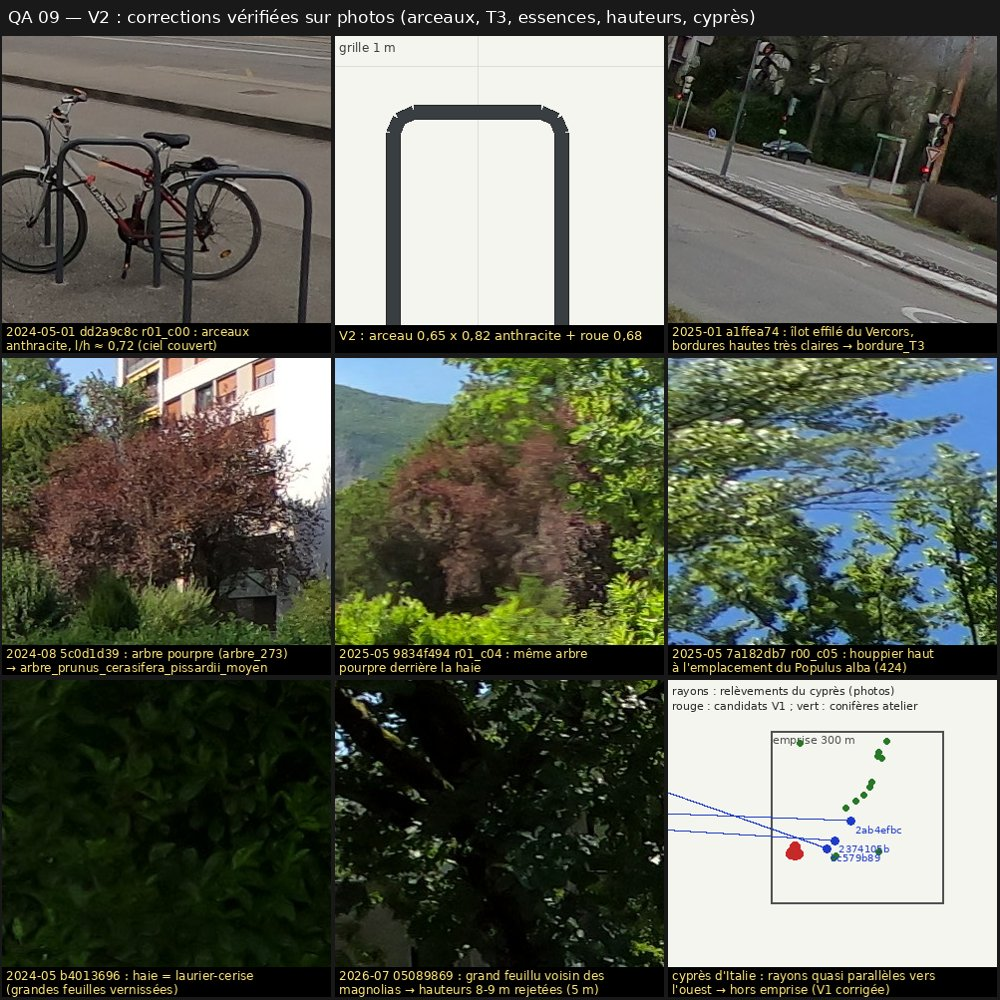
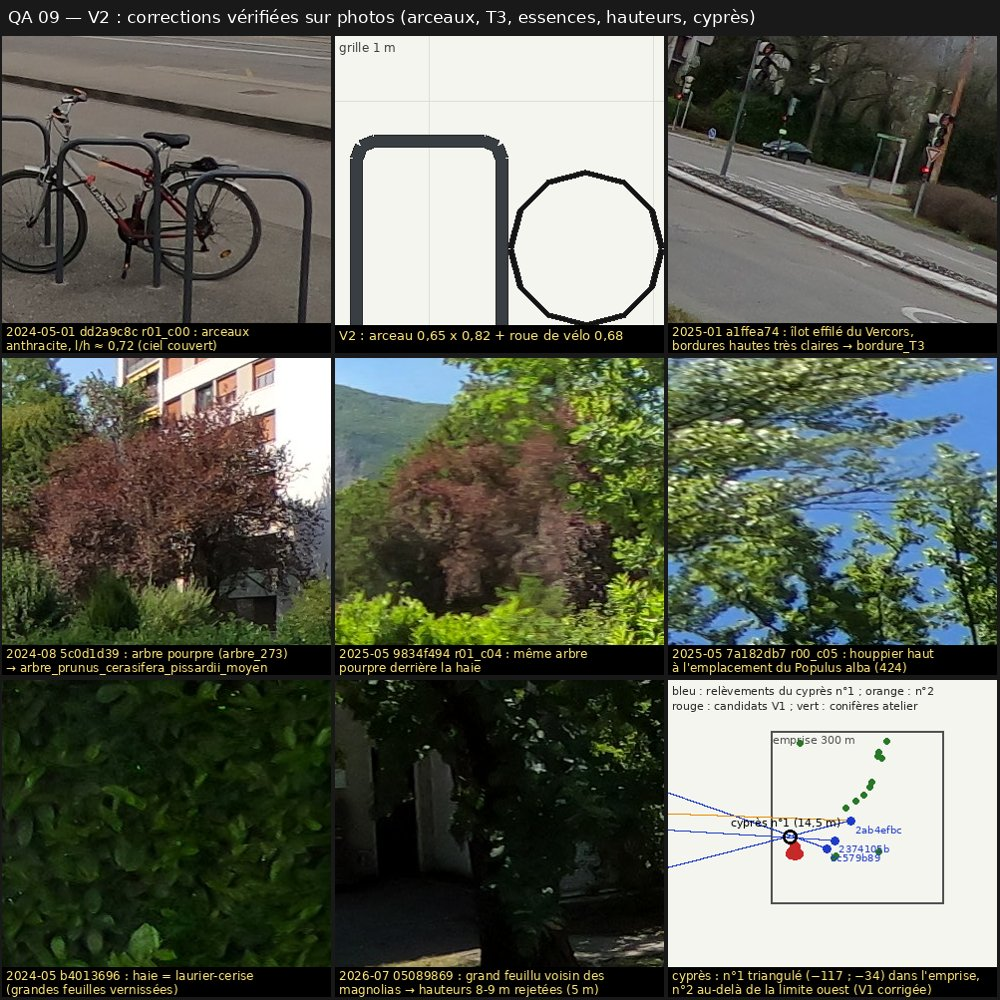
Librairie : spécifications mobilier/bordures/végétation et CARLA (instantané, lot en cours)
Claude-Session: https://claude.ai/code/session_016uVmtG49m772kqMcXifgSi

diff --git a/assets/specs/outils_mobilier_vegetation/construire_specs.py b/assets/specs/outils_mobilier_vegetation/construire_specs.py
@@ -35,7 +35,7 @@ HISTORIQUE = [
     {"version": 1, "date": "2026-10-09", "contenu": "première version (fiches, profils, essences, correspondances CARLA)"},
     {"version": 2, "date": DATE, "contenu": ("contrôle visuel des 8 planches V1 et recoupements photo/normes : correspondance prototypes de la scène → "
                                               "noms du catalogue (+ script noms_catalogue_scene.py), hauteurs d'arbres aberrantes corrigées, 2 essences "
-                                              "ajoutées (arbre pourpre, peuplier blanc), cyprès hors emprise, arceaux anthracite 0,65 x 0,82 m, positions des BEV, "
+                                              "ajoutées (arbre pourpre, peuplier blanc), cyprès n°1 triangulé dans l'emprise (instance à ajouter), arceaux anthracite 0,65 x 0,82 m, positions des BEV, "
                                               "profils de bordures vérifiés sur les plans cotés Celtys, bordure_T3 explicite, identifiants CARLA revérifiés")},
 ]
 
@@ -254,7 +254,8 @@ def construire_mobilier():
             "sources_donnees": ["recon/out/paquet_jardin/objets/mobilier.geojson (positions, hauteurs LiDAR, OSM)", "data/raw/panoramax/paquet_jardin/tiles (photos)",
                                 "data/sites/paquet_jardin/vector/osm_*.geojson", "data/raw/docs/panneau_150dpi.png (plan projet 2025)"],
             "controle_visuel": ["assets/qa/mobilier_vegetation_carla/qa_01_eclairage.jpg", "assets/qa/mobilier_vegetation_carla/qa_02_transport.jpg",
-                                "assets/qa/mobilier_vegetation_carla/qa_03_mobilier.jpg", "assets/qa/mobilier_vegetation_carla/qa_08_carla_vs_reel.jpg"],
+                                "assets/qa/mobilier_vegetation_carla/qa_03_mobilier.jpg", "assets/qa/mobilier_vegetation_carla/qa_08_carla_vs_reel.jpg",
+                                "assets/qa/mobilier_vegetation_carla/qa_09_v2_corrections.jpg"],
             "hors_lot": "feux, mâts de feux, mât à crosse caméra et panneaux : assets/specs/feux.json et panneaux.json (la correspondance avec la scène les inclut pour être complète)",
             "version": VERSION, "historique": HISTORIQUE,
         },
@@ -381,7 +382,8 @@ def construire_bordures():
             "longueur_element": "1,00 m (joints de 3-5 mm, éléments de 0,50 m en courbe serrée ; éléments courbes R 25 en nez d'îlot)",
             "tolerances_nf": "faces vues : ± 3 mm (< 100 mm), ± 3 % (100-170 mm), ± 5 mm (> 170 mm) ; longueur ± 1 %",
             "sources": DB.SOURCES,
-            "controle_visuel": ["assets/qa/mobilier_vegetation_carla/qa_04_bordures_profils.jpg", "assets/qa/mobilier_vegetation_carla/qa_05_bordures_site.jpg"],
+            "controle_visuel": ["assets/qa/mobilier_vegetation_carla/qa_04_bordures_profils.jpg", "assets/qa/mobilier_vegetation_carla/qa_05_bordures_site.jpg",
+                                "assets/qa/mobilier_vegetation_carla/qa_09_v2_corrections.jpg (bordure_T3)"],
             "verification_v2": DB.VERIFICATION_V2,
             "version": VERSION, "historique": HISTORIQUE,
         },
@@ -482,7 +484,8 @@ def construire_vegetation():
                  "sources": ["data/context/arbres_metropole.geojson (68 fiches dans l'emprise : 52 présentes, 16 abattues)",
                              "recon/out/paquet_jardin/objets/arbres.geojson (470 arbres : GAM, LiDAR, inventaire, plan projet)",
                              "plan projet 2025 (data/raw/docs/panneau_150dpi.png, codes d'essences relus à 150 dpi)", "photos Panoramax 2023-2026"],
-                 "controle_visuel": ["assets/qa/mobilier_vegetation_carla/qa_06_vegetation.jpg", "assets/qa/mobilier_vegetation_carla/qa_07_plan_jeunes_sujets.jpg"],
+                 "controle_visuel": ["assets/qa/mobilier_vegetation_carla/qa_06_vegetation.jpg", "assets/qa/mobilier_vegetation_carla/qa_07_plan_jeunes_sujets.jpg",
+                                     "assets/qa/mobilier_vegetation_carla/qa_09_v2_corrections.jpg"],
                  "version": VERSION, "historique": HISTORIQUE,
                  "classes_scene_v1": ("attention : recon/assemble.py (paquet v1) nomme les prototypes d'arbres avec ses propres classes (petit < 8 m, moyen < 15 m, "
                                       "grand au-delà) et l'essence brute : voir correspondance_scene_v1 pour la table prototype de scène → asset"),
@@ -493,7 +496,8 @@ def construire_vegetation():
         "generateur_jeune_sujet": {"hda_propose": "jeune_sujet.hda (Houdini 22) : tronc conique + 5-8 charpentières + rameaux (Labs Tree Branch Generator) + cartes de feuilles par essence + tripode bois",
                                    "parametres": ["essence (atlas de feuilles, couleur été/automne)", "hauteur 3,5-5 m", "Ø tige 0,05-0,08 m", "Ø couronne 1,5-2,5 m",
                                                   "état saisonnier 0-1 (vert → coloré → chute)", "tuteurage on/off (tripode 3 x Ø 0,08 x 2,2 m + demi-rondins)", "paillage Ø 1,5-2 m"]},
-        "correspondance_scene_v1": correspondance(True, SPECS / "vegetation.json"),
+        "correspondance_scene_v1": dict(correspondance(True, SPECS / "vegetation.json") or {},
+                                        instances_a_ajouter=[dict(i, asset=e["asset"]) for e in ess_out for i in e.get("instances_a_ajouter", [])]),
         "essences": ess_out,
         "synthese": {"arbres_inventaire_presents": sum(1 for a, v in par.items() if "generique" not in a and a != "arbre_prunus_cerasifera_pissardii_moyen"
                                                        for p in v if "planté 2025" not in str(p.get("statut_2026")) and "vérifier" not in str(p.get("statut_2026"))),

diff --git a/assets/specs/outils_mobilier_vegetation/planches_controle.py b/assets/specs/outils_mobilier_vegetation/planches_controle.py
@@ -180,7 +180,7 @@ def p3_mobilier(mob):
     ]
     cells += [gab(mob, "barriere_croix_saint_andre", cw, chh, 120, h0=-1.0, titre="spec barrière 1,5 x 1,0 m"),
               dessiner_gabarit(fiche(mob, "arceau_velo")["gabarit_2d"]["elements"] + [dict(e, h0=e["h0"] if "h0" in e else 0) for e in []],
-                               cw, chh, 120, h0=-0.9, titre="spec arceau 0,8 x 0,85 m"),
+                               cw, chh, 120, h0=-0.9, titre="spec arceau 0,65 x 0,82 m (V2)"),
               gab(mob, "barriere_levante", cw, chh, 48, h0=-0.5, titre="spec barrière levante 4,4 m"),
               None]
     # dernière cellule : armoire technique + poteau d'incendie + armoire des feux
@@ -308,23 +308,29 @@ def _plan_cypres(w, h):
         X, Y = P(q["x_local"], q["y_local"])
         r = 5 if q["id"] in v1 else 3
         d.ellipse([X - r, Y - r, X + r, Y + r], fill=(200, 40, 40) if q["id"] in v1 else (40, 120, 40))
-    rayons = [((-53.94, -54.79), 289.4, "bc579b89"), ((-39.59, -39.60), 273.4, "2374105b"), ((-11.13, -6.19), 272.1, "2ab4efbc")]
-    for (px, py), az, nom in rayons:
+    rayons = [((-53.94, -54.79), 289.4, "bc579b89", (30, 60, 200)), ((-39.59, -39.60), 273.4, "2374105b", (30, 60, 200)),
+              ((-11.13, -6.19), 255.8, "2ab4efbc", (30, 60, 200)), ((-11.13, -6.19), 272.1, "", (230, 140, 0))]
+    for (px, py), az, nom, col in rayons:
         a = math.radians(az)
-        d.line([P(px, py), P(px + 420 * math.sin(a), py + 420 * math.cos(a))], fill=(30, 60, 200), width=2)
+        d.line([P(px, py), P(px + 420 * math.sin(a), py + 420 * math.cos(a))], fill=col, width=2)
         X, Y = P(px, py)
         d.ellipse([X - 4, Y - 4, X + 4, Y + 4], fill=(30, 60, 200))
-        d.text((X + 4, Y + 2), nom, fill=(30, 60, 200), font=font(10))
-    d.text((4, 4), "rayons : relèvements du cyprès (photos)\nrouge : candidats V1 ; vert : conifères atelier", fill=(40, 40, 40), font=font(11))
-    return legende(im, "cyprès d'Italie : rayons quasi parallèles vers\nl'ouest → hors emprise (V1 corrigée)")
+        if nom:
+            d.text((X + 4, Y + 2), nom, fill=(30, 60, 200), font=font(10))
+    X, Y = P(-116.6, -33.6)
+    d.ellipse([X - 7, Y - 7, X + 7, Y + 7], outline=(0, 0, 0), width=3)
+    d.text((X - 60, Y - 22), "cyprès n°1 (14,5 m)", fill=(0, 0, 0), font=font(11))
+    d.text((4, 4), "bleu : relèvements du cyprès n°1 ; orange : n°2\nrouge : candidats V1 ; vert : conifères atelier", fill=(40, 40, 40), font=font(11))
+    return legende(im, "cyprès : n°1 triangulé (−117 ; −34) dans l'emprise,\nn°2 au-delà de la limite ouest (V1 corrigée)")
 
 
 def p9_v2(mob):
     """Planche V2 : corrections et ajouts vérifiés sur photos natives."""
     cw, chh = 330, 318
     arceau_gab = dessiner_gabarit(fiche(mob, "arceau_velo")["gabarit_2d"]["elements"] + [
-        {"t": "circ", "h": 1.2, "z": 0.34, "r": 0.34, "c": "noir_9005"}], cw, chh, 260, h0=-0.55, personne=False,
-        titre="V2 : arceau 0,65 x 0,82 anthracite + roue 0,68", cote="grille 1 m")
+        {"t": "line", "p": [[0.70 + 0.34 * __import__("math").cos(t / 12 * 6.2832), 0.34 + 0.34 * __import__("math").sin(t / 12 * 6.2832)] for t in range(13)],
+         "w": 0.02, "c": "noir_9005"}], cw, chh, 225, h0=-0.42, personne=False,
+        titre="V2 : arceau 0,65 x 0,82 + roue de vélo 0,68", cote="grille 1 m")
     cells = [
         legende(extrait(T_DD2A, "r01_c00", 300, 330, cw, chh), "2024-05-01 dd2a9c8c r01_c00 : arceaux\nanthracite, l/h ≈ 0,72 (ciel couvert)"),
         arceau_gab,
@@ -332,8 +338,8 @@ def p9_v2(mob):
         legende(extrait(T_5C0D, "r01_c04", 600, 200, cw, chh), "2024-08 5c0d1d39 : arbre pourpre (arbre_273)\n→ arbre_prunus_cerasifera_pissardii_moyen"),
         legende(extrait(T_9834, "r01_c04", 90, 160, cw, chh), "2025-05 9834f494 r01_c04 : même arbre\npourpre derrière la haie"),
         legende(extrait(T_7A18, "r00_c05", 0, 380, cw, chh), "2025-05 7a182db7 r00_c05 : houppier haut\nà l'emplacement du Populus alba (424)"),
-        legende(extrait(T_B401, "r01_c04", 300, 300, cw, chh), "2024-05 b4013696 : haie = laurier-cerise\n(grandes feuilles vernissées)"),
-        legende(extrait(T_0508, "r01_c04", 520, 120, cw, chh), "2026-07 05089869 : grand feuillu voisin des\nmagnolias → hauteurs 8-9 m rejetées (5 m)"),
+        legende(extrait(T_B401, "r01_c04", 40, 560, cw, chh), "2024-05 b4013696 : haie = laurier-cerise\n(grandes feuilles vernissées)"),
+        legende(extrait(T_0508, "r01_c04", 560, 320, cw, chh), "2026-07 05089869 : grand feuillu voisin des\nmagnolias → hauteurs 8-9 m rejetées (5 m)"),
         _plan_cypres(cw, chh),
     ]
     return planche("QA 09 — V2 : corrections vérifiées sur photos (arceaux, T3, essences, hauteurs, cyprès)", cells, 3, 3, "qa_09_v2_corrections.jpg")

diff --git a/assets/specs/outils_mobilier_vegetation/donnees_vegetation.py b/assets/specs/outils_mobilier_vegetation/donnees_vegetation.py
@@ -226,11 +226,15 @@ ESSENCES = [
      "port": "fastigié : colonne très étroite et dense, pointe effilée", "tronc": "non visible",
      "feuillage": feuillage("persistant", "#2E4A28", "#2E4A28", "inchangé (vert très sombre)", "inchangé"),
      "gabarit": {"hauteur": 16.0, "fut_nu": 0.5, "couronne_diametre": 2.5, "forme_couronne": "colonne fusiforme (rapport h/l ≈ 6-8)"},
-     "positions_note": ("V2 : HORS EMPRISE. Relèvements de la colonne sombre sur 3 photos (2025-05-18 bc579b89 r01_c03 x≈910 → az 289° depuis (−54, −55) ; "
-                        "2025-05-18 2374105b r01_c03 x≈655 → az 273° depuis (−40, −40) ; 2024-08-24 2ab4efbc r01_c03 x≈585 → az 272° depuis (−11, −6)) "
-                        "quasi parallèles : sujets à ≥ 120-150 m vers l'ouest, au-delà de la limite x = −150 m. Les candidats V1 (arbre_108, 139, 140, 143, 164 ; "
-                        "x −104…−115) sont à 20-25° de ces directions : ce sont des conifères génériques (groupe de cimes coniques privé). "
-                        "Asset utile comme décor lointain / extension de l'emprise"),
+     "positions_note": ("V2 : 2 sujets. N° 1 DANS l'emprise, triangulé par moindres carrés sur 3 photos (colonne sombre : 2025-05-18 bc579b89 r01_c03 x≈910, "
+                        "az 289,4° ; 2025-05-18 2374105b r01_c03 x≈655, az 273,4° ; 2024-08-24 2ab4efbc r01_c03 x≈325, az 255,8°) → (−116,6 ; −33,6) m ± 4 m, "
+                        "écarts d'azimut < 1°, hauteur déduite des élévations 12,5-15,4 m (≈ 14,5 m) ; ABSENT de l'atelier objets (arbre le plus proche : "
+                        "arbre_178, feuillu LiDAR 10 m, à ≈ 12,7 m) → instance à ajouter à la scène (voir instances_a_ajouter). N° 2 : colonne haute devant les "
+                        "tentes de la jardinerie (2ab4efbc r01_c03 x≈585, az 272,1°), aucun arbre de l'atelier sur ce rayon dans l'emprise → au-delà de la "
+                        "limite ouest (≥ 140 m de la photo), décor lointain. Les candidats V1 (arbre_108, 139, 140, 143, 164 ; x −104…−115, y −51…−66) sont "
+                        "à 17-26 m au sud du point triangulé : conifères génériques"),
+     "instances_a_ajouter": [{"id": "cypres_1_v2", "x": -116.6, "y": -33.6, "hauteur_m": 14.5, "precision_m": 4.0,
+                              "source": "triangulation de 3 photos Panoramax (V2)", "statut_2026": "existant (vu 2024-08, 2025-05)"}],
      "production": {"principale": SPT, "alternatives": ["fab", "carla static.prop.cypresstree (silhouette proche, à mettre à l'échelle)"]},
      "photos_reference": [tuile(T_2AB4, "r01_c03"), tuile(T_BC579, "r01_c03"), tuile(T_2374, "r01_c03")]},
     {"asset": "arbre_pinus_sylvestris_moyen", "nom_latin": "Pinus sylvestris (probable)", "nom_francais": "pin sylvestre", "nom_anglais": "Scots pine",
